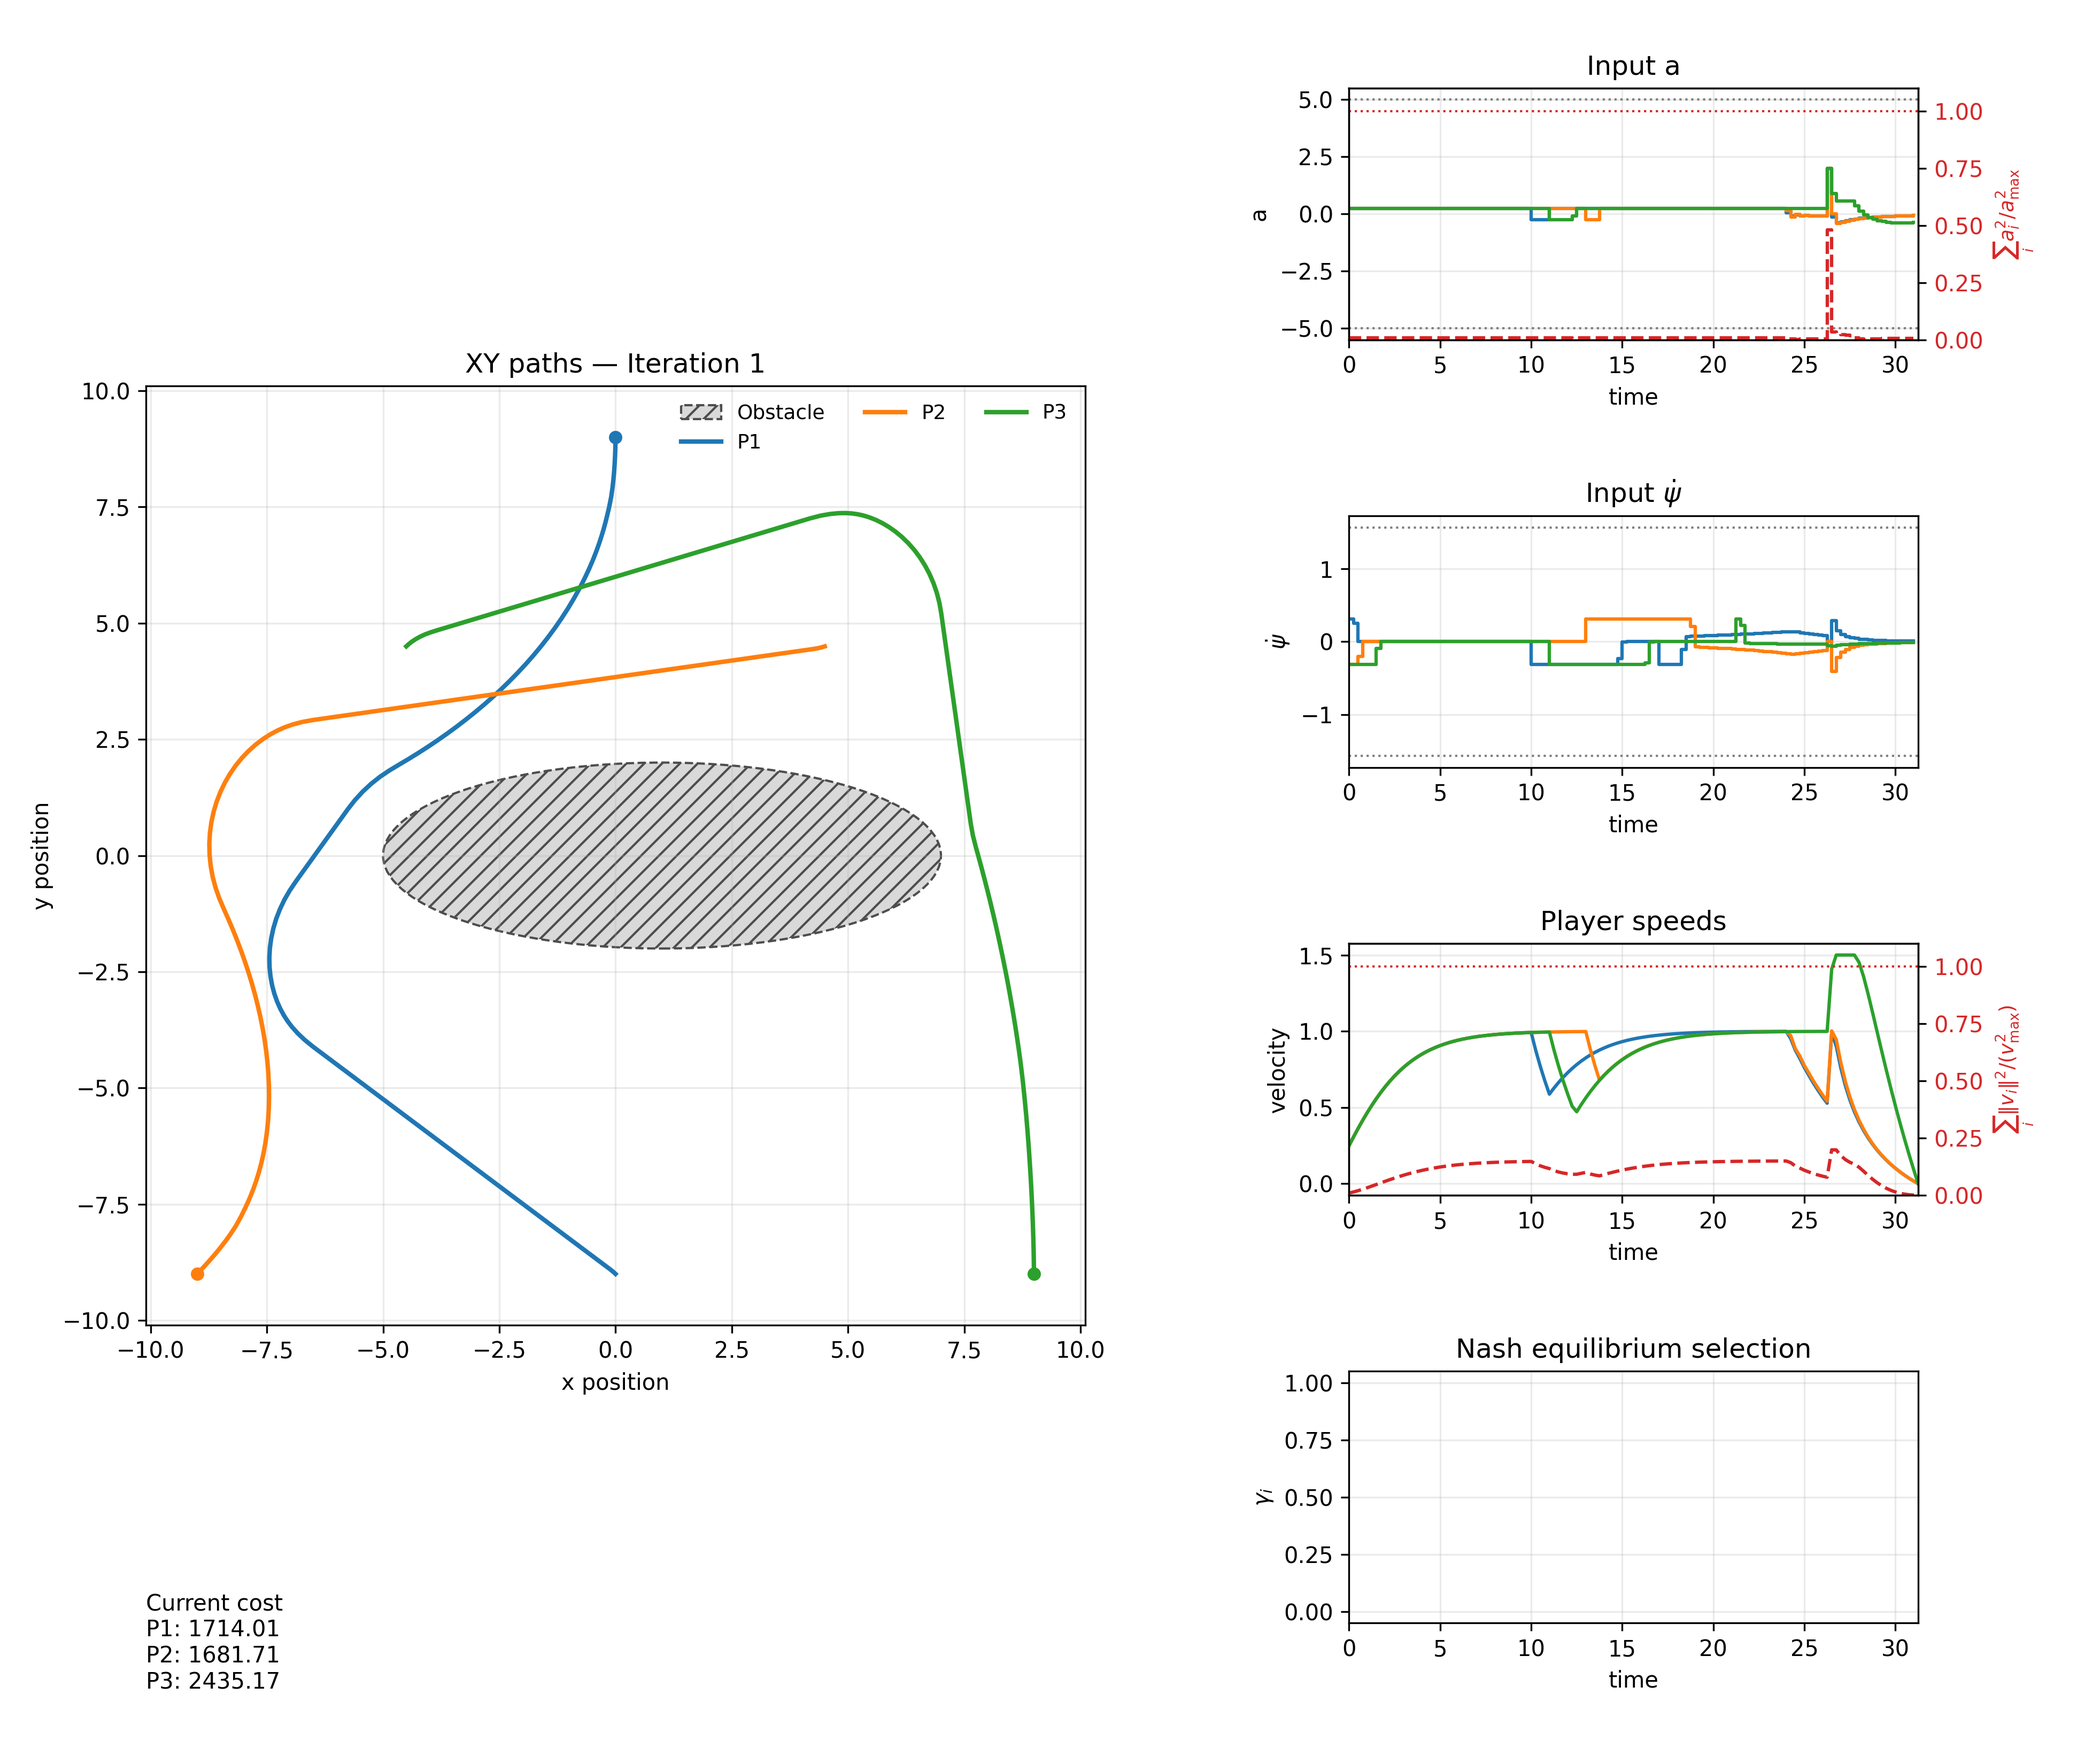
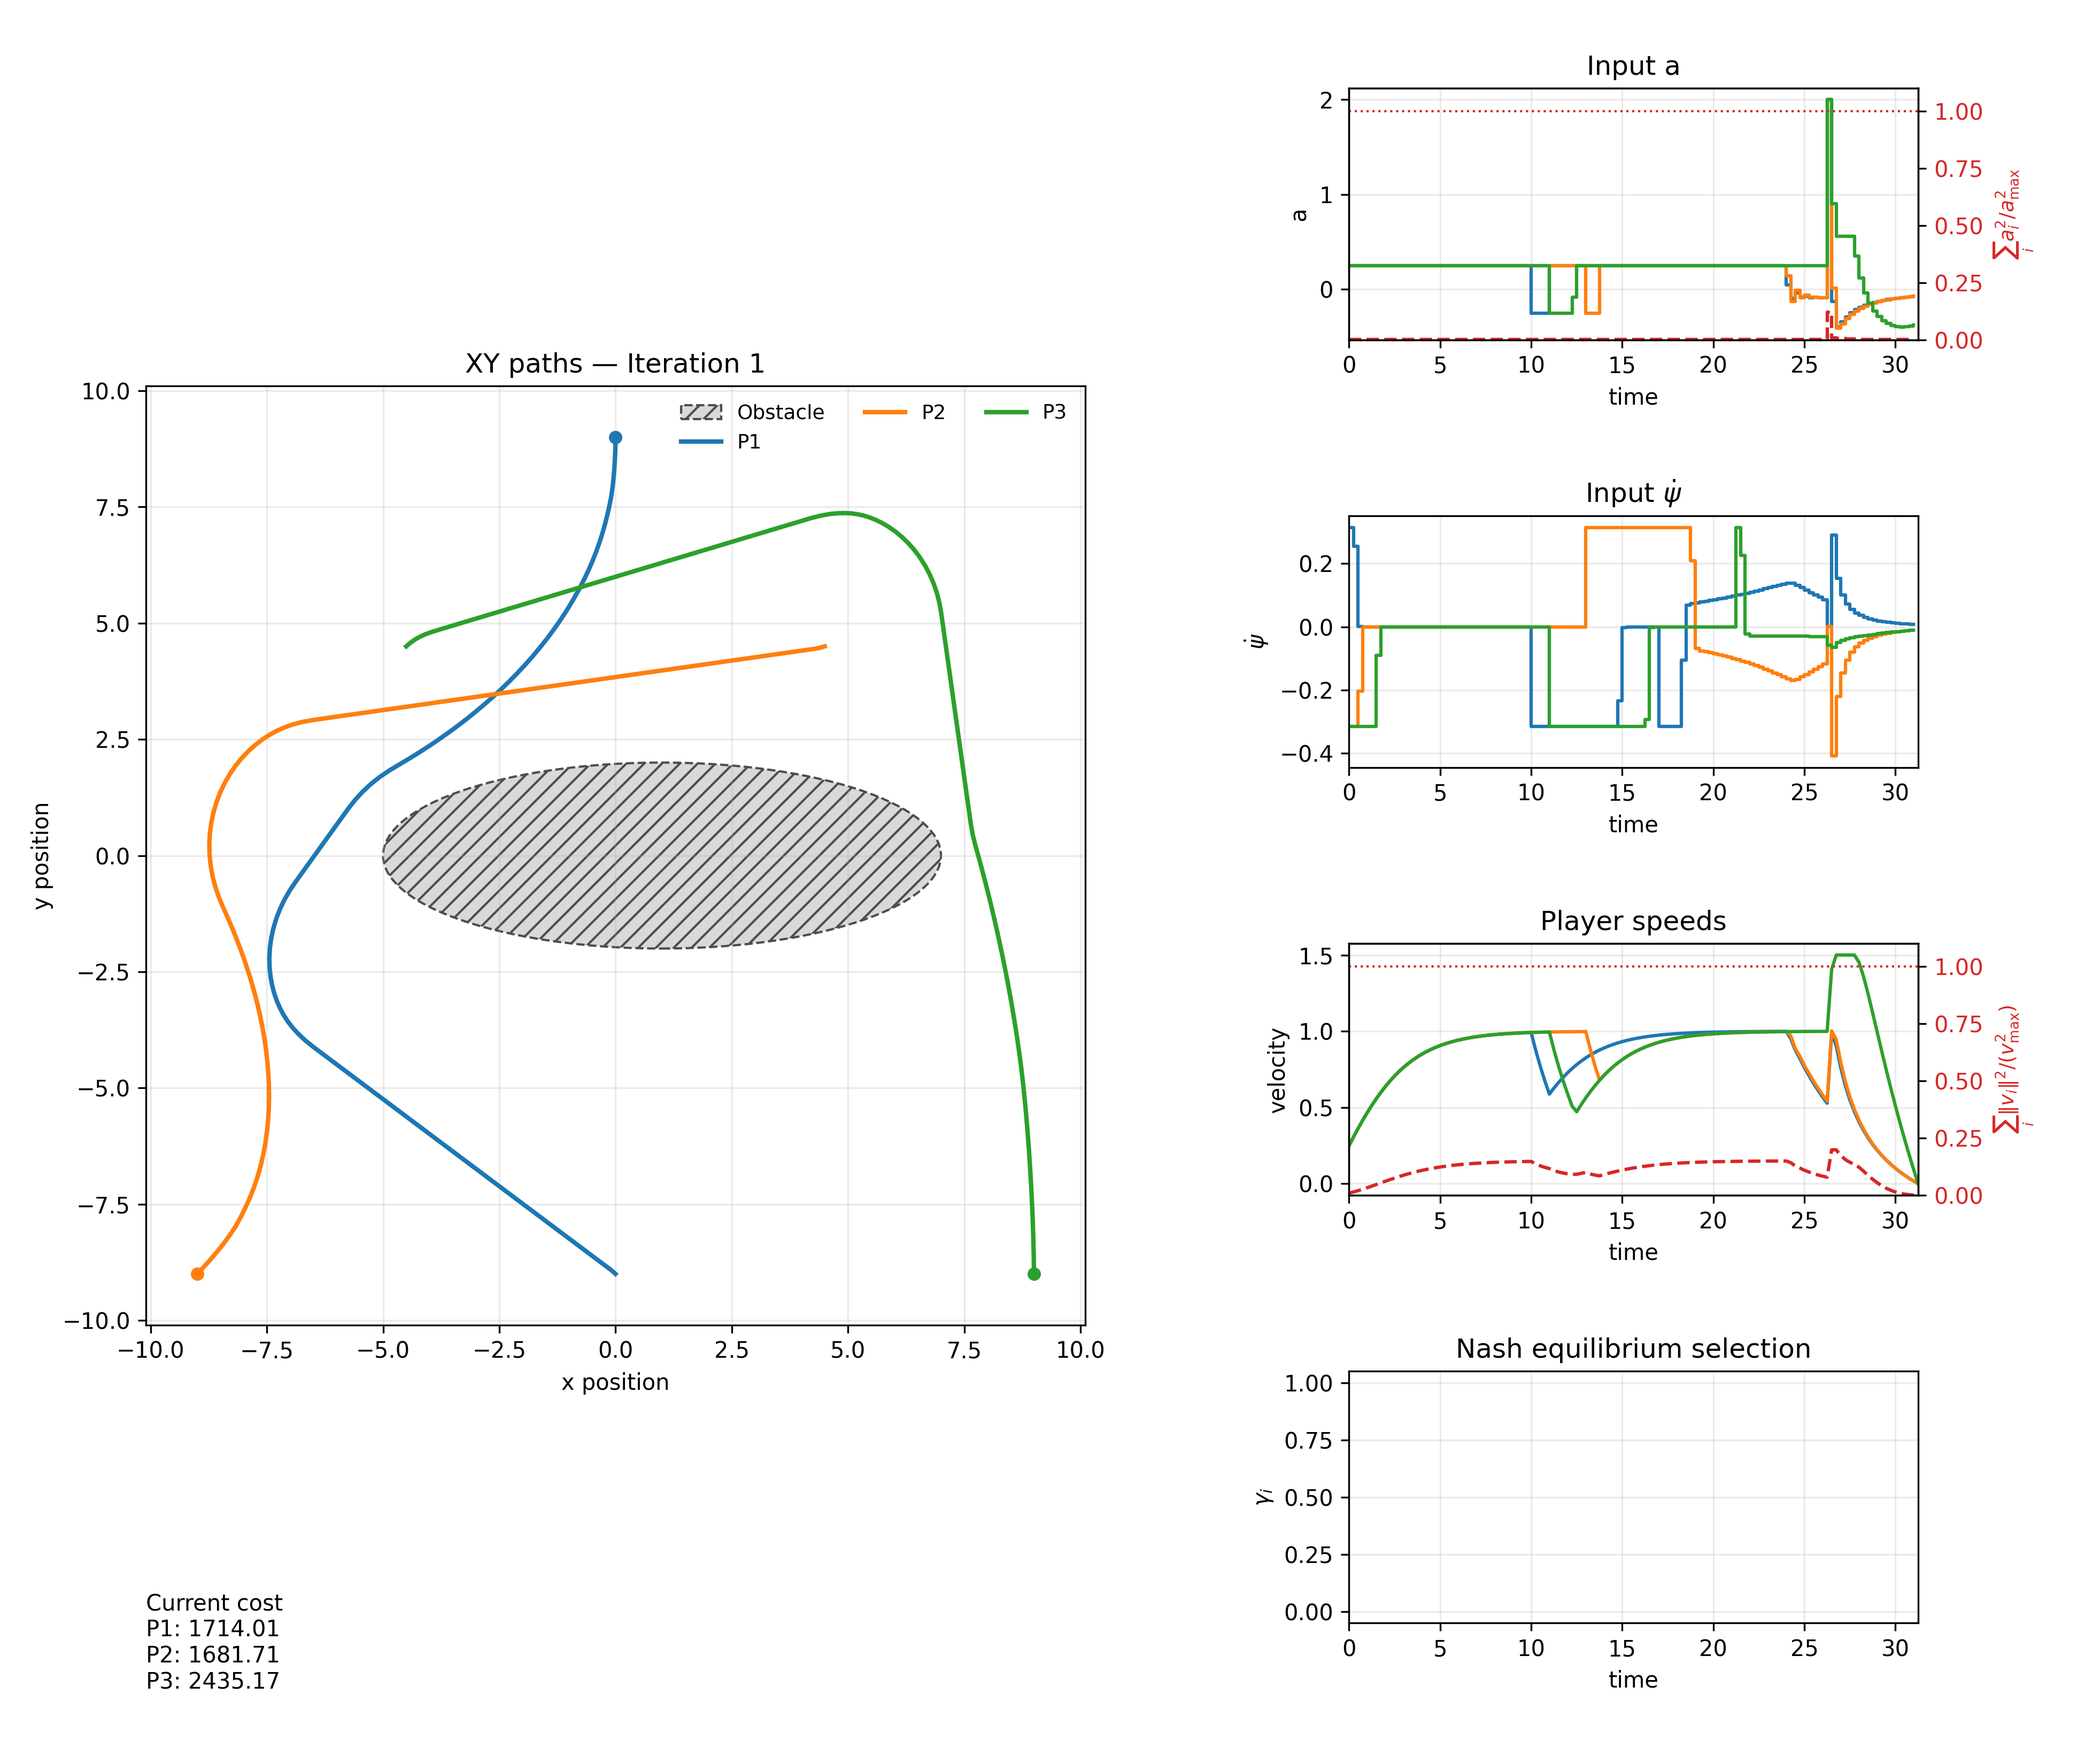
remove privte contst on ax

diff --git a/SimulationPlot.py b/SimulationPlot.py
@@ -229,13 +229,13 @@ def save_iteration_figure(
             )
         input_ax.set_ylabel(label)
         input_ax.set_title(f"Input {label}")
-        if game.is_unicycle:
-            lower, upper = ((-game.a_max, game.a_max) if component == 0
-                            else game.steering_bounds)
-        else:
-            lower, upper = game.u_min, game.u_max
-        input_ax.axhline(lower, color="0.5", linestyle=":", linewidth=1)
-        input_ax.axhline(upper, color="0.5", linestyle=":", linewidth=1)
+        # if game.is_unicycle:
+        #     lower, upper = ((-game.a_max, game.a_max) if component == 0
+        #                     else game.steering_bounds)
+        # else:
+        #     lower, upper = game.u_min, game.u_max
+        # input_ax.axhline(lower, color="0.5", linestyle=":", linewidth=1)
+        # input_ax.axhline(upper, color="0.5", linestyle=":", linewidth=1)
         if game.is_unicycle and component == 0:
             shared_ax, shared_line = _shared_constraint_axis(
                 input_ax, r"$\sum_i a_i^2 / a_{\max}^2$", drawstyle="steps-post"
@@ -520,13 +520,13 @@ def plot_simulation_init(game):
                 [], [], color=f"C{player}", drawstyle="steps-post",
                 label=f"P{player + 1}",
             )
-        if game.is_unicycle:
-            lower, upper = ((-game.a_max, game.a_max) if component == 0
-                            else game.steering_bounds)
-        else:
-            lower, upper = game.u_min, game.u_max
-        ax.axhline(upper, color="0.5", linestyle=":", linewidth=1)
-        ax.axhline(lower, color="0.5", linestyle=":", linewidth=1)
+        # if game.is_unicycle:
+        #     lower, upper = ((-game.a_max, game.a_max) if component == 0
+        #                     else game.steering_bounds)
+        # else:
+        #     lower, upper = game.u_min, game.u_max
+        # ax.axhline(upper, color="0.5", linestyle=":", linewidth=1)
+        # ax.axhline(lower, color="0.5", linestyle=":", linewidth=1)
         ax.set_xlabel("time")
         ax.set_ylabel(label)
         ax.set_title(f"Input {label} vs time")
@@ -1134,7 +1134,7 @@ def plot_simulation(game, solver1, LearnedData, pause=0.01):
         if game.n_players == 3:
             speed_sum_squares += p3_speed**2
         lines["shared_velocity"].set_data(
-            t, speed_sum_squares / (game.v2_max**2)
+            t, speed_sum_squares / (game.v2_max)
         )
         _autoscale_shared_constraint(state["ax_velocity_constraint"])
 

diff --git a/DGSolver.py b/DGSolver.py
@@ -1120,7 +1120,7 @@ class DGSolver:
         alignment = max(0.0, np.cos(heading - state[3]))
         desired_speed = np.clip(
             min(distance / remaining_time, braking_speed) * alignment,
-            self.game.v_min, self.game.v_max,
+            self.game.v_min, np.sqrt(self.game.v2_max)/self.game.n_players,
         )
         acceleration = np.clip((desired_speed - state[2]) / self.game.dt,
                                -self.game.a_max, self.game.a_max)
@@ -2115,7 +2115,7 @@ class DGSolver:
                                                 + 2.0 * self.game.a_max * distance)
                         desired_speed = np.clip(
                             min(distance / remaining_time, braking_speed),
-                            self.game.v_min, self.game.v_max,
+                            self.game.v_min, np.sqrt(self.game.v2_max)/self.game.n_players,
                         )
                         # dynamics_fun integrates over game.dt for the unicycle.
                         acceleration = (desired_speed - xp[k, 2]) / self.game.dt

diff --git a/Game.py b/Game.py
@@ -140,8 +140,6 @@ class GameDynamics:
             steering_min, steering_max = self.steering_bounds
             self.f_private = ca.Function(
                 'f_private', [x1_sym, u1_sym], [
-                    1-u1_sym[0]/self.a_max,
-                    u1_sym[0]/self.a_max+1,
                     x1_sym[2] - self.v_min,
                     u1_sym[1]/steering_min+1,
                     1-u1_sym[1]/steering_max,
